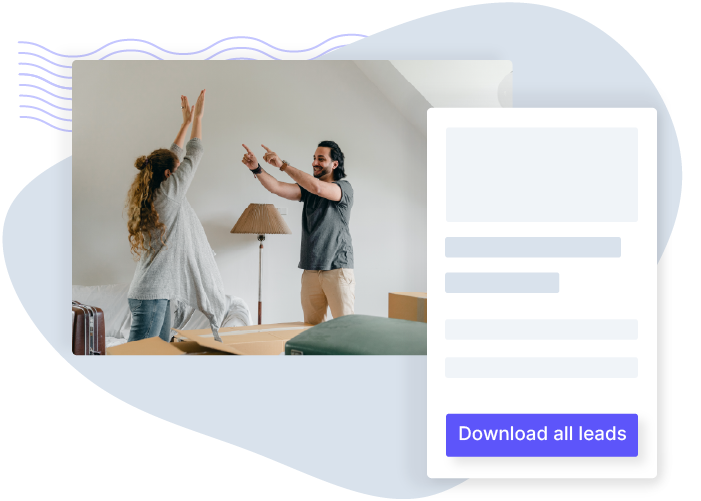
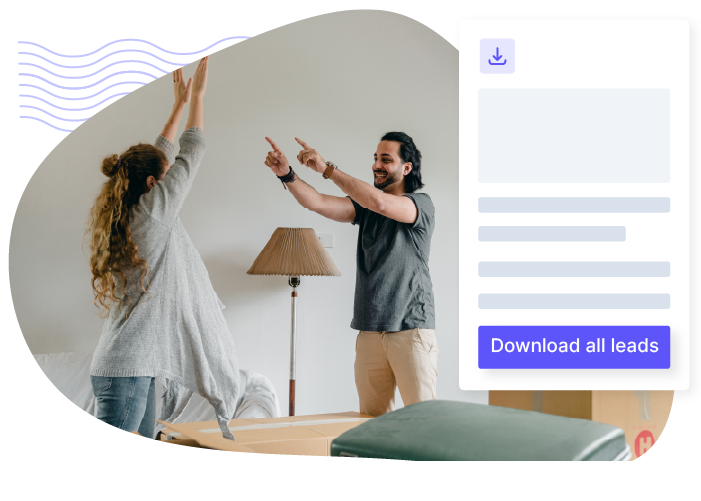
add: new index images

diff --git a/src/pages/index.jsx b/src/pages/index.jsx
@@ -187,7 +187,10 @@ const IndexPage = ({ data }) => {
                 </header>
               </div>
               <div className="mt-4 md:mt-0 md:ml-12 lg:ml-16 md:w-1/2">
-                <Img fluid={feature.image} className="w-full max-w-xs" />
+                <Img
+                  fluid={feature.image}
+                  className="w-full max-w-xs lg:max-w-md"
+                />
               </div>
             </article>
           ))}
